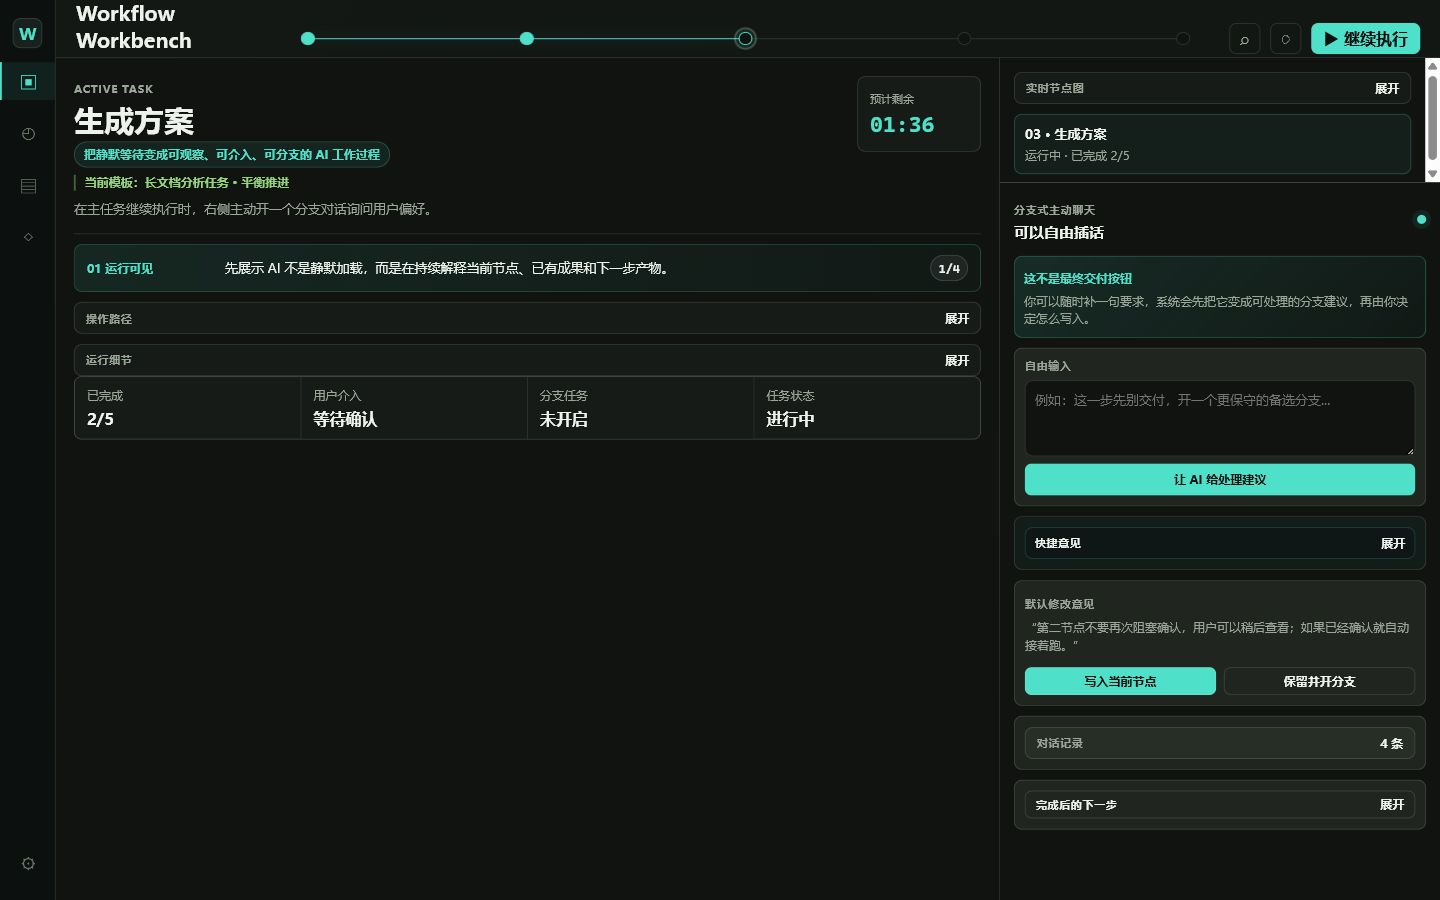
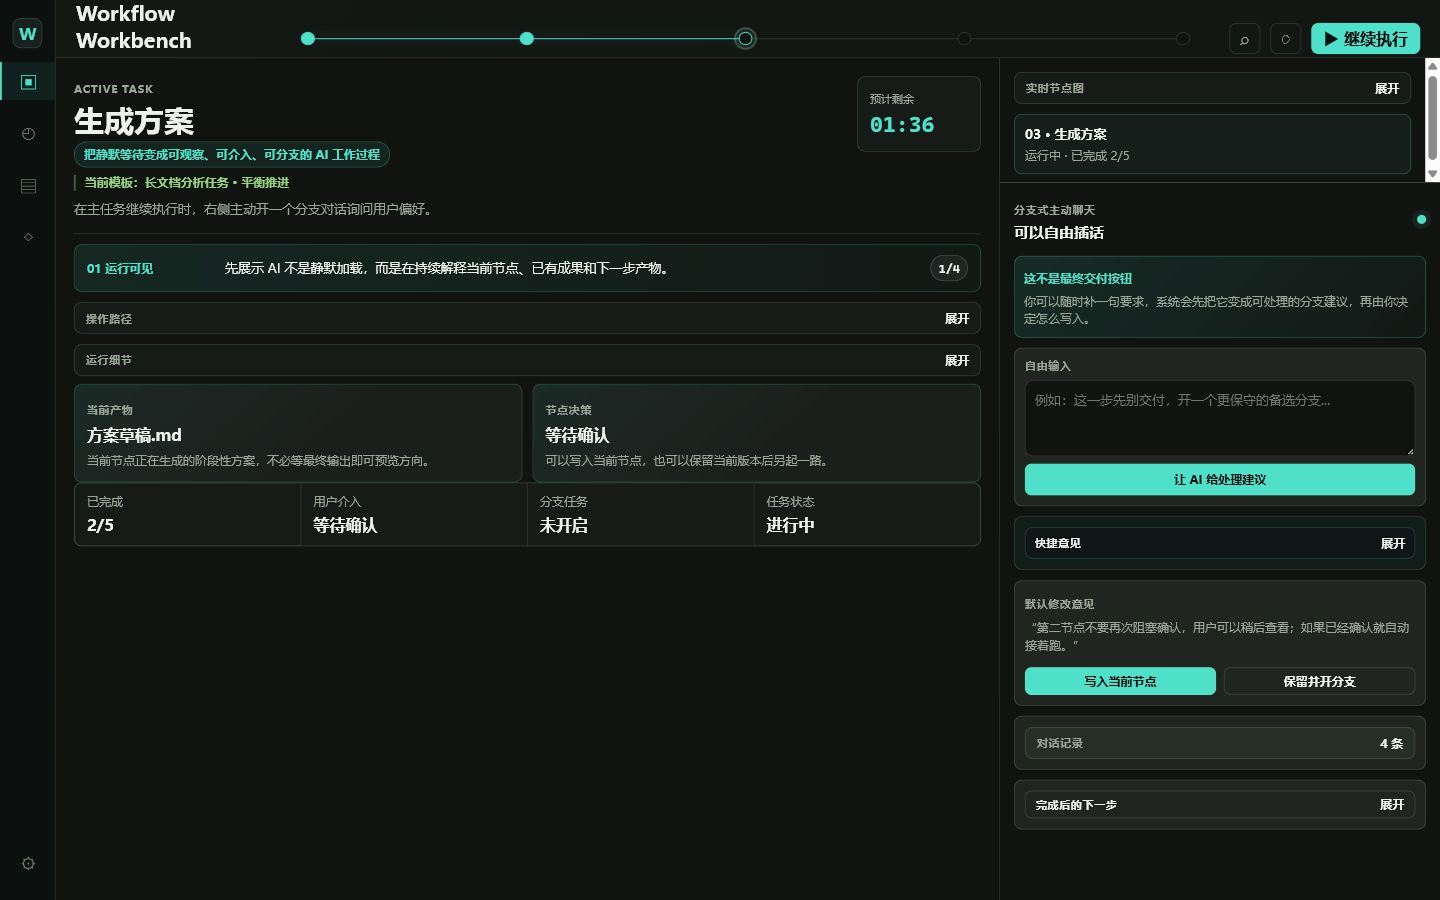
Fix collapsed runtime flow issues

Changed region(s): [[0.0625, 0.4044, 0.2812, 0.5911], [0.375, 0.4044, 0.5625, 0.5911]]

diff --git a/src/App.tsx b/src/App.tsx
@@ -184,6 +184,7 @@ function App() {
     setCueStep('interrupt');
     setSelectedId('draft');
     setSelectedEventId('draft');
+    setOpenPanels((current) => ({ ...current, details: true }));
   };
 
   const openBranch = () => {
@@ -192,6 +193,7 @@ function App() {
     setSelectedId('branch');
     setSelectedEventId('branch');
     setSelectedArtifact('checkpoint');
+    setOpenPanels((current) => ({ ...current, details: true }));
   };
 
   const resolveIntervention = (mode: 'current' | 'branch' | 'record') => {
@@ -458,6 +460,26 @@ function App() {
                 <span>运行细节</span>
                 <strong>{openPanels.details ? '收起' : '展开'}</strong>
               </button>
+              {!openPanels.details && (
+                <section className="collapsed-snapshot" aria-label="当前产物快照">
+                  <article>
+                    <span>当前产物</span>
+                    <strong>{currentArtifact.title}</strong>
+                    <p>{currentArtifact.summary}</p>
+                  </article>
+                  <article>
+                    <span>节点决策</span>
+                    <strong>{decisionLabel[nodeDecision]}</strong>
+                    <p>
+                      {pendingIntervention
+                        ? '有一条修改意见等待处理。'
+                        : runtimeConfig.autoBranch
+                          ? '可以写入当前节点，也可以保留当前版本后另起一路。'
+                          : '当前策略会直接写入主任务，不自动开分支。'}
+                    </p>
+                  </article>
+                </section>
+              )}
               {openPanels.details && (
             <div className="scene-grid">
               <section className="runtime-panel" aria-label="运行事件流">

diff --git a/src/styles.css b/src/styles.css
@@ -1064,6 +1064,43 @@ button {
   background: var(--teal);
 }
 
+.collapsed-snapshot {
+  display: grid;
+  grid-template-columns: repeat(2, minmax(0, 1fr));
+  gap: 10px;
+}
+
+.collapsed-snapshot article {
+  border: 1px solid rgba(79, 224, 202, 0.18);
+  border-radius: 8px;
+  padding: 12px;
+  background:
+    linear-gradient(140deg, rgba(79, 224, 202, 0.08), rgba(237, 243, 236, 0.025) 54%),
+    var(--panel);
+}
+
+.collapsed-snapshot span {
+  color: var(--muted);
+  font-size: 11px;
+  font-weight: 900;
+  letter-spacing: 0.06em;
+  text-transform: uppercase;
+}
+
+.collapsed-snapshot strong {
+  display: block;
+  margin-top: 6px;
+  color: var(--text);
+  font-size: 16px;
+}
+
+.collapsed-snapshot p {
+  margin: 7px 0 0;
+  color: var(--muted);
+  font-size: 12px;
+  line-height: 1.45;
+}
+
 .scene-grid {
   display: grid;
   grid-template-columns: minmax(280px, 0.9fr) minmax(260px, 1fr);
@@ -1850,11 +1887,7 @@ button {
 }
 
 .workbench.is-focus .stage {
-  grid-template-columns: minmax(0, 1fr) 230px;
-}
-
-.workbench.is-focus .chat-panel {
-  display: none;
+  grid-template-columns: minmax(0, 1fr) 360px;
 }
 
 @media (max-width: 980px) {
